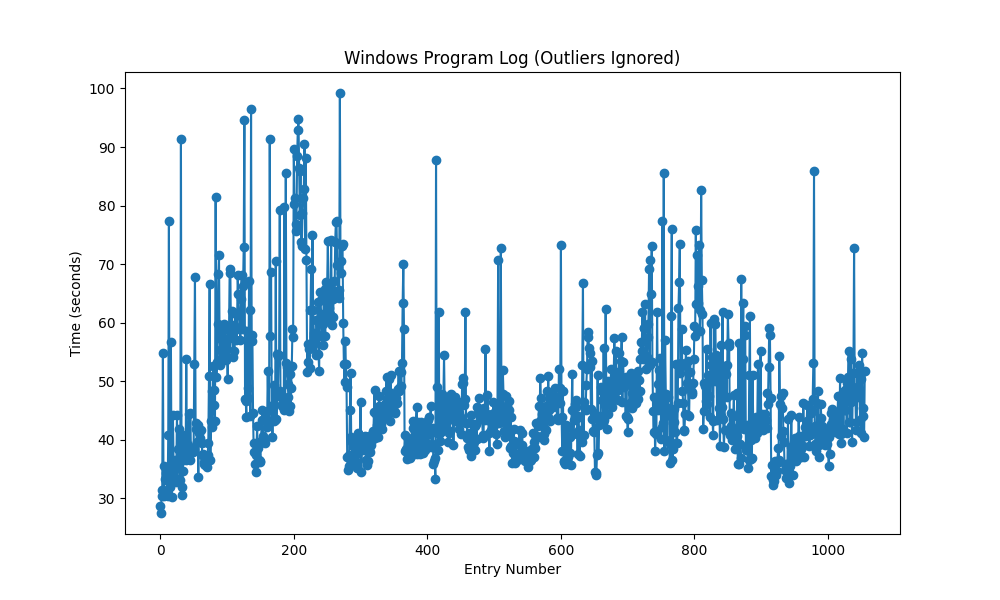
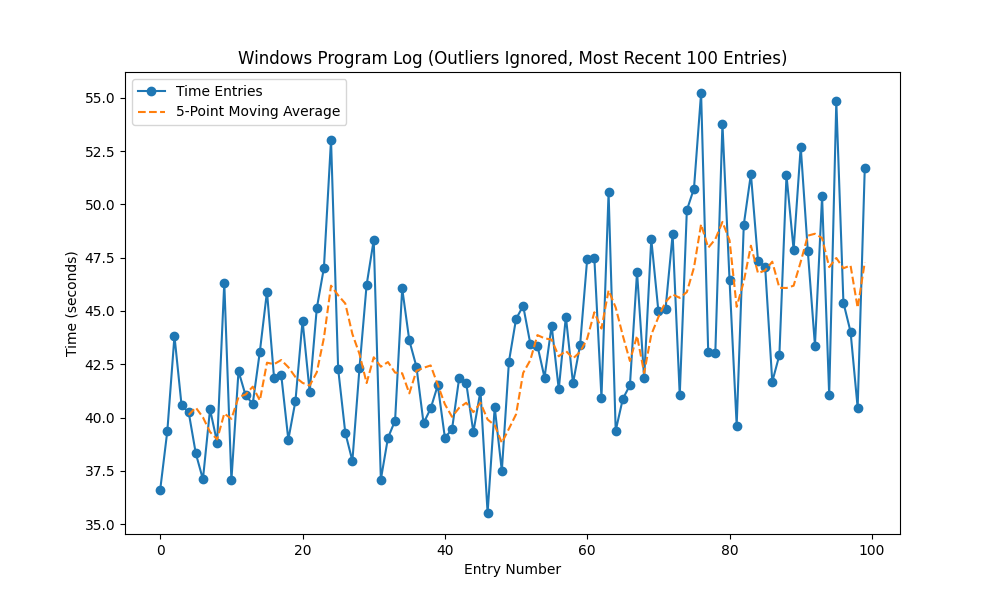
Adjust outlier threshold and add moving average trend line to graph

diff --git a/time_logs/graph_Maker.py b/time_logs/graph_Maker.py
@@ -1,9 +1,8 @@
 import matplotlib.pyplot as plt
 import numpy as np
-from scipy import stats
 
 # Define a threshold to ignore massive outliers
-outlier_threshold = 100.0  # You can adjust this threshold as needed
+outlier_threshold = 60.0  # You can adjust this threshold as needed
 
 # Read the time entries from the file and filter out outliers
 with open("windows_program_log.txt", "r") as file:
@@ -13,6 +12,9 @@ with open("windows_program_log.txt", "r") as file:
         if float(line.strip()) <= outlier_threshold
     ]
 
+# Limit the graph to show only the most recent 100 entries
+time_entries = time_entries[-100:]
+
 # Calculate statistics
 average_time = np.mean(time_entries)
 median_time = np.median(time_entries)
@@ -20,10 +22,22 @@ std_deviation = np.std(time_entries)
 
 # Create a plot
 plt.figure(figsize=(10, 6))  # You can adjust the figure size as needed
-plt.plot(time_entries, marker="o", linestyle="-")
-plt.title("Windows Program Log (Outliers Ignored)")
+
+# Add a moving average trend line (e.g., 5-point moving average)
+window_size = 5
+moving_average = np.convolve(
+    time_entries, np.ones(window_size) / window_size, mode="valid"
+)
+moving_average = np.pad(
+    moving_average, (window_size - 1, 0), "constant", constant_values=np.nan
+)
+
+plt.plot(time_entries, marker="o", linestyle="-", label="Time Entries")
+plt.plot(moving_average, linestyle="--", label=f"{window_size}-Point Moving Average")
+plt.title("Windows Program Log (Outliers Ignored, Most Recent 100 Entries)")
 plt.xlabel("Entry Number")
 plt.ylabel("Time (seconds)")
+plt.legend()
 
 # Save the plot as a PNG file
 plt.savefig("windows_program_log_filtered.png")
@@ -32,7 +46,7 @@ plt.savefig("windows_program_log_filtered.png")
 plt.show()
 
 # Display statistics
-print("Statistics for time entries:")
+print("Statistics for the most recent 100 time entries:")
 print(f"Average: {average_time:.2f} seconds")
 print(f"Median: {median_time:.2f} seconds")
 print(f"Standard Deviation: {std_deviation:.2f} seconds")
